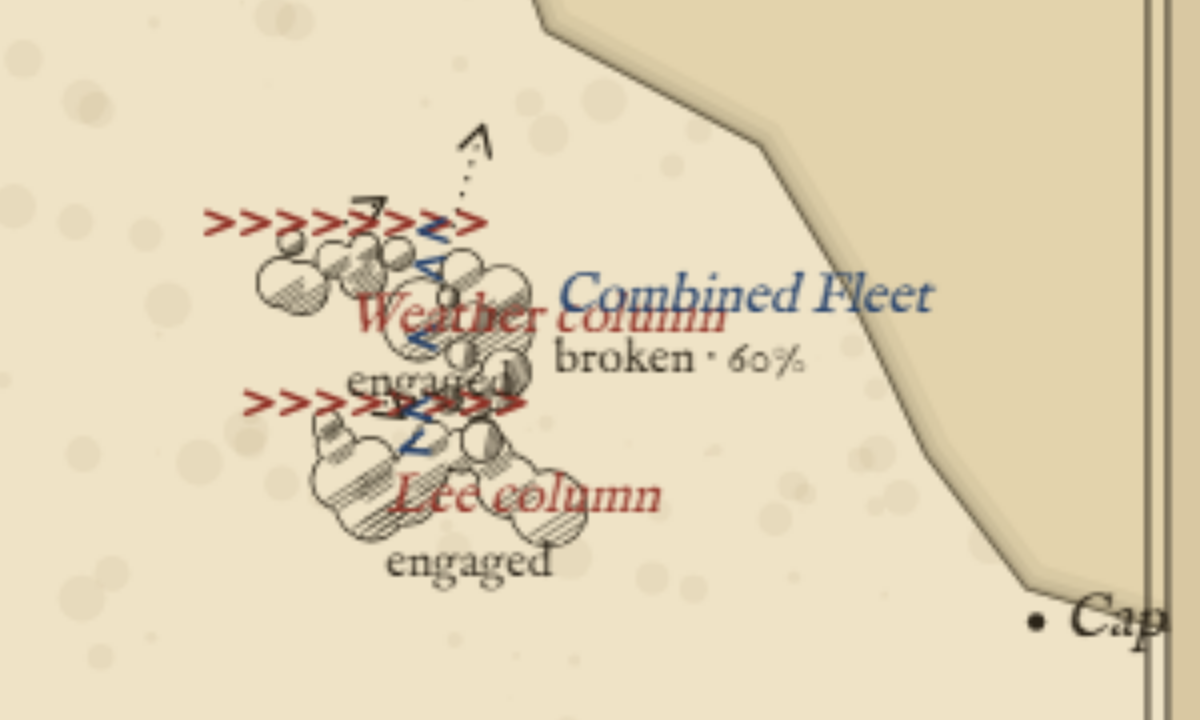
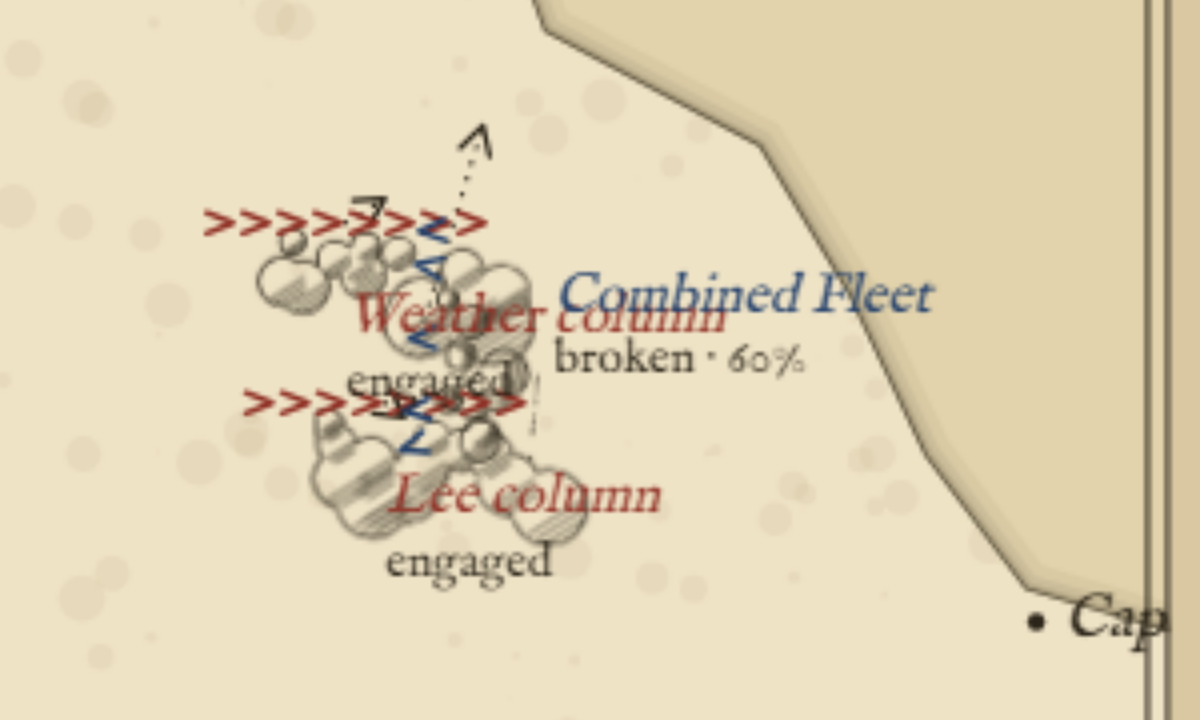
prototype(render): composite the billow offscreen, cut Atlas's nose to a barb
The two calls the prototype put to the human (#40).

The engaged cloud's interior is now genuinely empty rather than filled with the
paper: the union is punched with `destination-out` on a scratch canvas and
stamped onto the plate, because punching on the plate itself takes the sea with
it. At Cannae a fighting wing will sit on the ground rather than in a hole in
it; the cost is one shared scratch canvas.

Atlas's heading nose was a full-width taper, which turned the block into an
arrow and put it in competition with the detachment move. It is now a small
barb on a leading edge that stays rectangular, at the cost of some heading
legibility at small sizes.

Claude-Session: https://claude.ai/code/session_01CSR9BMCjWeAC4jgm5m4KAM

diff --git a/src/render/glyphs/ticks.ts b/src/render/glyphs/ticks.ts
@@ -116,9 +116,11 @@ interface Puff {
  * side of each puff, drifting off the unit's flank under the wind.
  *
  * The union outline is drawn as a band rather than as strokes, so no puff's
- * outline shows inside another: the union of the puffs is filled in ink, then
- * the union of the same puffs eroded by the line width is filled back in
- * paper. The cloud is therefore opaque, as the design canvas drew it.
+ * outline shows inside another: the union of the puffs is filled in ink and the
+ * same union eroded by the line width is punched back out. That has to happen
+ * on a scratch canvas — punching straight onto the plate would erase the sea
+ * under it — and the reward is a cloud whose inside is genuinely empty, so at
+ * Cannae a fighting wing does not sit in a paper hole in the ground.
  */
 function drawBillow(ctx: CanvasRenderingContext2D, request: GlyphRequest, random: () => number): void {
   const { length, formation, state, scale, palette } = request;
@@ -146,33 +148,82 @@ function drawBillow(ctx: CanvasRenderingContext2D, request: GlyphRequest, random
     });
   }
 
-  const width = Math.max(0.4, 0.7 * scale);
-  ctx.save();
-  tracePuffs(ctx, puffs, 0);
-  ctx.fillStyle = palette.ink;
-  ctx.fill();
-  tracePuffs(ctx, puffs, -width);
-  ctx.fillStyle = palette.paper;
-  ctx.fill();
+  paintCloud(ctx, puffs, drift, Math.max(0.4, 0.7 * scale), scale, palette.ink);
+}
+
+/**
+ * Paints the cloud through a scratch canvas: the union in ink, the eroded union
+ * punched out of it, then the hatching, and the result stamped onto the plate.
+ * `destination-out` on the plate itself would take the sea with it.
+ */
+function paintCloud(
+  ctx: CanvasRenderingContext2D,
+  puffs: readonly Puff[],
+  drift: { x: number; y: number },
+  width: number,
+  scale: number,
+  ink: string,
+): void {
+  const margin = 2;
+  const left = Math.min(...puffs.map((p) => p.x - p.r)) - margin;
+  const top = Math.min(...puffs.map((p) => p.y - p.r)) - margin;
+  const right = Math.max(...puffs.map((p) => p.x + p.r)) + margin;
+  const bottom = Math.max(...puffs.map((p) => p.y + p.r)) + margin;
+  const cloudWidth = right - left;
+  const cloudHeight = bottom - top;
+  if (cloudWidth <= 0 || cloudHeight <= 0) return;
+
+  // The plate's transform carries the device pixel ratio and the unit's
+  // rotation; the scratch is rendered at the same density so the outline stays
+  // a hairline rather than a smear.
+  const transform = ctx.getTransform();
+  const density = Math.max(1, Math.hypot(transform.a, transform.b));
+  const deviceWidth = Math.ceil(cloudWidth * density);
+  const deviceHeight = Math.ceil(cloudHeight * density);
+  const scratch = scratchCanvas(deviceWidth, deviceHeight);
+  const paint = scratch.getContext("2d");
+  if (paint === null) return;
+
+  paint.setTransform(density, 0, 0, density, -left * density, -top * density);
+  paint.clearRect(left, top, cloudWidth, cloudHeight);
+
+  tracePuffs(paint, puffs, 0);
+  paint.fillStyle = ink;
+  paint.fill();
+  paint.globalCompositeOperation = "destination-out";
+  tracePuffs(paint, puffs, -width);
+  paint.fill();
+  paint.globalCompositeOperation = "source-over";
 
   // Three chords on each puff's lee side. Too fine to read in the legend's sample, so skipped there.
   if (scale >= 0.9) {
-    ctx.strokeStyle = palette.ink;
-    ctx.lineWidth = 0.55 * scale;
+    paint.strokeStyle = ink;
+    paint.lineWidth = 0.55 * scale;
     for (const puff of puffs) {
       for (const fraction of [0.3, 0.52, 0.74]) {
         const offset = puff.r * fraction;
         const half = Math.sqrt(Math.max(0, puff.r * puff.r - offset * offset)) * 0.82;
         const cx = puff.x + drift.x * offset;
         const cy = puff.y + drift.y * offset;
-        ctx.beginPath();
-        ctx.moveTo(cx - drift.y * half, cy + drift.x * half);
-        ctx.lineTo(cx + drift.y * half, cy - drift.x * half);
-        ctx.stroke();
+        paint.beginPath();
+        paint.moveTo(cx - drift.y * half, cy + drift.x * half);
+        paint.lineTo(cx + drift.y * half, cy - drift.x * half);
+        paint.stroke();
       }
     }
   }
-  ctx.restore();
+
+  // Only the corner just painted: the scratch is shared and only ever grows.
+  ctx.drawImage(scratch, 0, 0, deviceWidth, deviceHeight, left, top, cloudWidth, cloudHeight);
+}
+
+/** One scratch canvas for every cloud on every frame, grown to the largest asked for. */
+let sharedScratch: HTMLCanvasElement | undefined;
+function scratchCanvas(width: number, height: number): HTMLCanvasElement {
+  const canvas = (sharedScratch ??= document.createElement("canvas"));
+  if (canvas.width < width) canvas.width = width;
+  if (canvas.height < height) canvas.height = height;
+  return canvas;
 }
 
 /** Every puff in one path, so a non-zero fill paints their union. `grow` erodes or dilates each radius. */

diff --git a/src/render/glyphs/block.ts b/src/render/glyphs/block.ts
@@ -13,8 +13,11 @@ import type { Glyph, GlyphRequest } from "../view.ts";
 const THICKNESS = 10;
 /** How far the engaged hatching stands off the block. */
 const HATCH_PAD = 7;
-/** The heading nose's height beyond the block's leading edge. */
-const NOSE = 8;
+/** The heading nose: a small barb on the leading edge, not a taper of the whole
+ * block. A full-width nose turns the block into an arrow, and Atlas already has
+ * three arrows of its own. */
+const NOSE = 4;
+const NOSE_HALF_WIDTH = 2.5;
 
 export const block: Glyph = { mark, body, halfWidth: (scale) => (THICKNESS / 2 + HATCH_PAD) * scale };
 
@@ -53,9 +56,9 @@ function body(ctx: CanvasRenderingContext2D, request: GlyphRequest): void {
   ctx.strokeRect(-w / 2, -h / 2, w, h);
   ctx.setLineDash([]);
 
-  // The heading nose: the block's whole leading edge for a column, a small barb for a line.
+  // The heading nose, the same barb whichever way the block runs.
   const nose = NOSE * scale;
-  const base = column ? w / 2 : 4 * scale;
+  const base = Math.min(w / 2, NOSE_HALF_WIDTH * scale);
   ctx.fillStyle = colour;
   ctx.beginPath();
   ctx.moveTo(-base, -h / 2);
